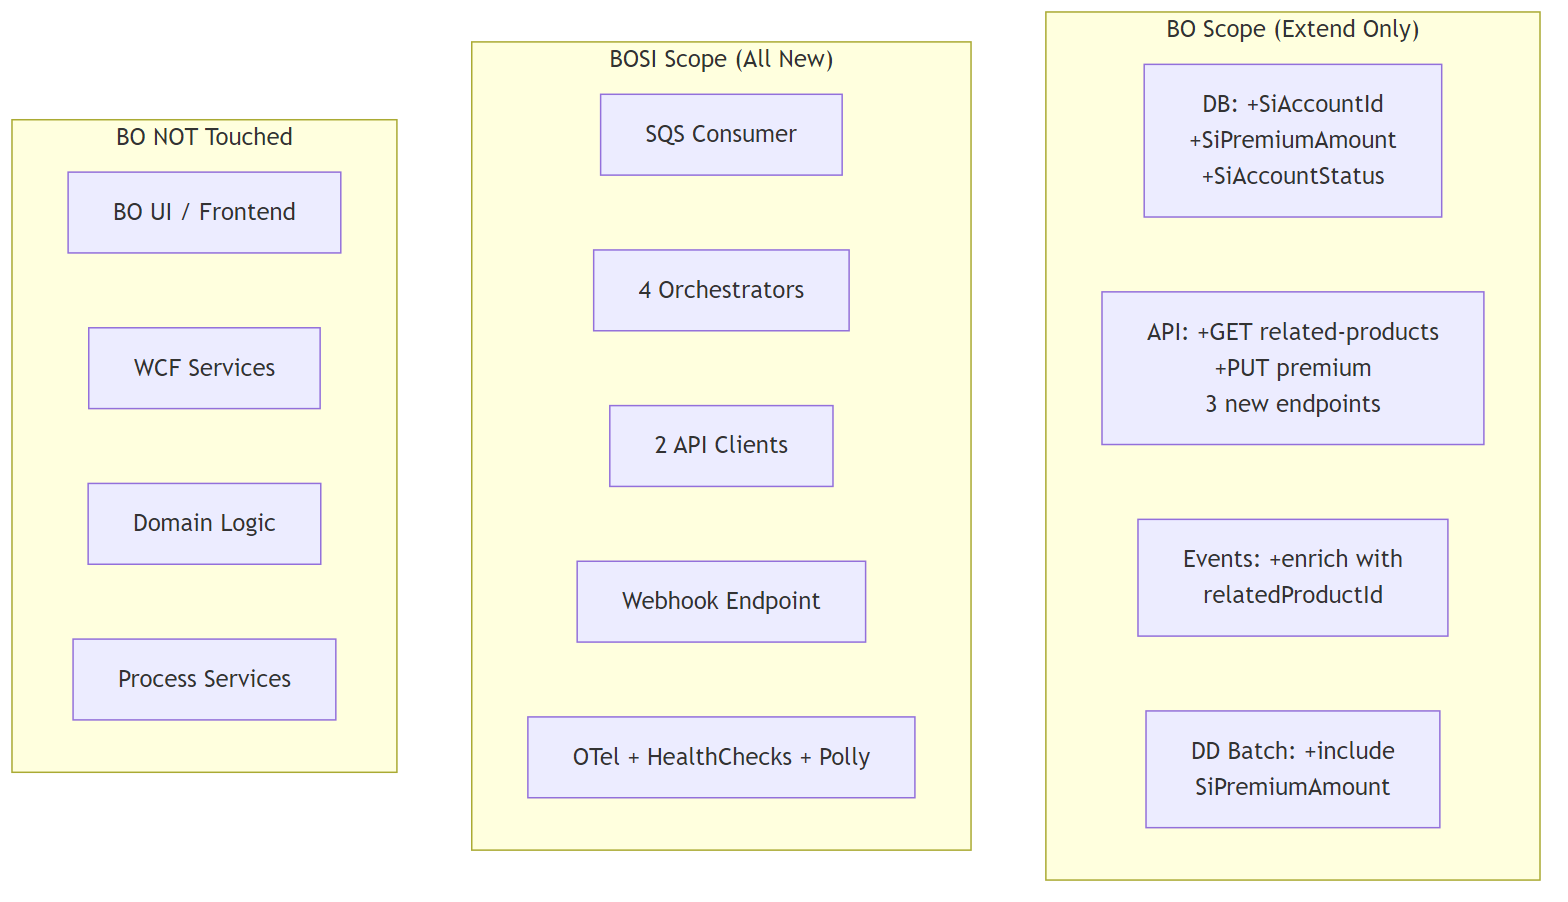
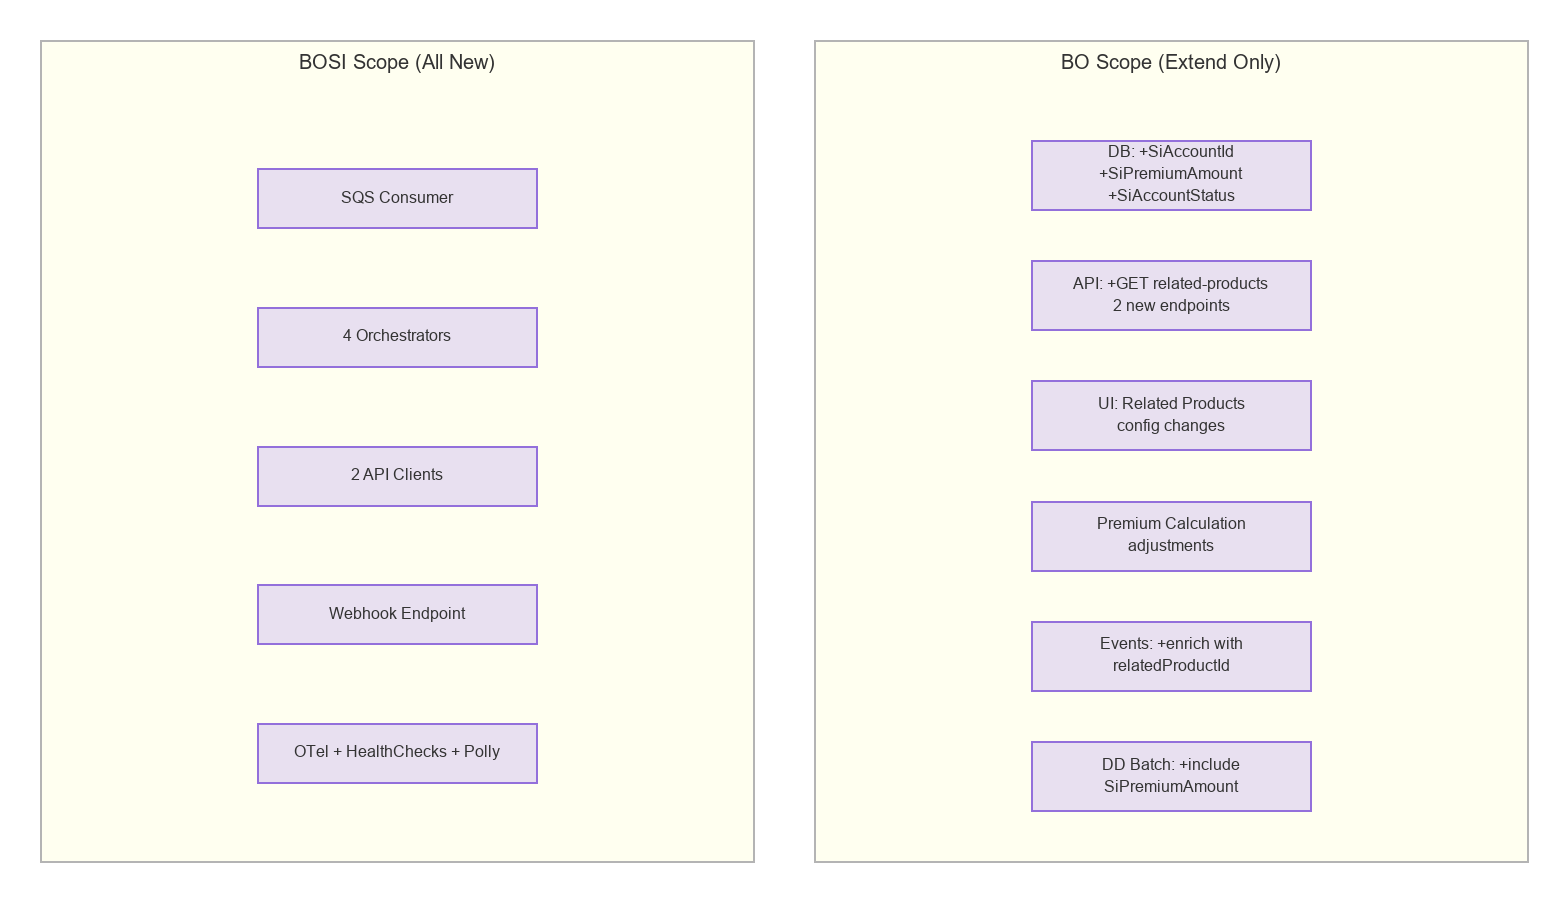
Update diagrams: remove PUT premium, add BO UI/premium calc scope
Made-with: Cursor

diff --git a/gen_boundary.py b/gen_boundary.py
@@ -1,0 +1,92 @@
+from PIL import Image, ImageDraw, ImageFont
+import os
+
+W, H = 1568, 902
+BG = (255, 255, 255)
+SECTION_BG = (255, 255, 240)
+BOX_BG = (232, 224, 240)
+BOX_BORDER = (147, 112, 219)
+SECTION_BORDER = (180, 180, 180)
+TEXT_COLOR = (51, 51, 51)
+TITLE_COLOR = (51, 51, 51)
+
+img = Image.new("RGB", (W, H), BG)
+draw = ImageDraw.Draw(img)
+
+try:
+    font_title = ImageFont.truetype("arial.ttf", 20)
+    font_box = ImageFont.truetype("arial.ttf", 16)
+except:
+    try:
+        font_title = ImageFont.truetype("C:/Windows/Fonts/arial.ttf", 20)
+        font_box = ImageFont.truetype("C:/Windows/Fonts/arial.ttf", 16)
+    except:
+        font_title = ImageFont.load_default()
+        font_box = ImageFont.load_default()
+
+def draw_section(x, y, w, h, title):
+    draw.rectangle([x, y, x + w, y + h], fill=SECTION_BG, outline=SECTION_BORDER, width=2)
+    bbox = draw.textbbox((0, 0), title, font=font_title)
+    tw = bbox[2] - bbox[0]
+    draw.text((x + (w - tw) / 2, y + 10), title, fill=TITLE_COLOR, font=font_title)
+
+def draw_box(x, y, w, h, lines):
+    draw.rectangle([x, y, x + w, y + h], fill=BOX_BG, outline=BOX_BORDER, width=2)
+    total_h = len(lines) * 22
+    start_y = y + (h - total_h) / 2
+    for i, line in enumerate(lines):
+        bbox = draw.textbbox((0, 0), line, font=font_box)
+        tw = bbox[2] - bbox[0]
+        draw.text((x + (w - tw) / 2, start_y + i * 22), line, fill=TEXT_COLOR, font=font_box)
+
+MARGIN = 40
+GAP = 60
+sec_w = (W - 2 * MARGIN - GAP) // 2
+sec_h = H - 2 * MARGIN
+
+# BOSI section (left)
+bosi_x = MARGIN
+bosi_y = MARGIN
+draw_section(bosi_x, bosi_y, sec_w, sec_h, "BOSI Scope (All New)")
+
+bosi_items = [
+    ["SQS Consumer"],
+    ["4 Orchestrators"],
+    ["2 API Clients"],
+    ["Webhook Endpoint"],
+    ["OTel + HealthChecks + Polly"],
+]
+
+box_w = 280
+box_h = 60
+bosi_box_x = bosi_x + (sec_w - box_w) / 2
+spacing = (sec_h - 50 - len(bosi_items) * box_h) / (len(bosi_items) + 1)
+
+for i, lines in enumerate(bosi_items):
+    by = bosi_y + 50 + spacing * (i + 1) + box_h * i
+    draw_box(bosi_box_x, by, box_w, box_h, lines)
+
+# BO section (right)
+bo_x = MARGIN + sec_w + GAP
+bo_y = MARGIN
+draw_section(bo_x, bo_y, sec_w, sec_h, "BO Scope (Extend Only)")
+
+bo_items = [
+    ["DB: +SiAccountId", "+SiPremiumAmount", "+SiAccountStatus"],
+    ["API: +GET related-products", "2 new endpoints"],
+    ["UI: Related Products", "config changes"],
+    ["Premium Calculation", "adjustments"],
+    ["Events: +enrich with", "relatedProductId"],
+    ["DD Batch: +include", "SiPremiumAmount"],
+]
+
+bo_box_h = 70
+spacing_bo = (sec_h - 50 - len(bo_items) * bo_box_h) / (len(bo_items) + 1)
+
+for i, lines in enumerate(bo_items):
+    by = bo_y + 50 + spacing_bo * (i + 1) + bo_box_h * i
+    draw_box(bo_x + (sec_w - box_w) / 2, by, box_w, bo_box_h, lines)
+
+out = os.path.join(os.path.dirname(__file__), "boundary.png")
+img.save(out, "PNG")
+print(f"Saved to {out}")
